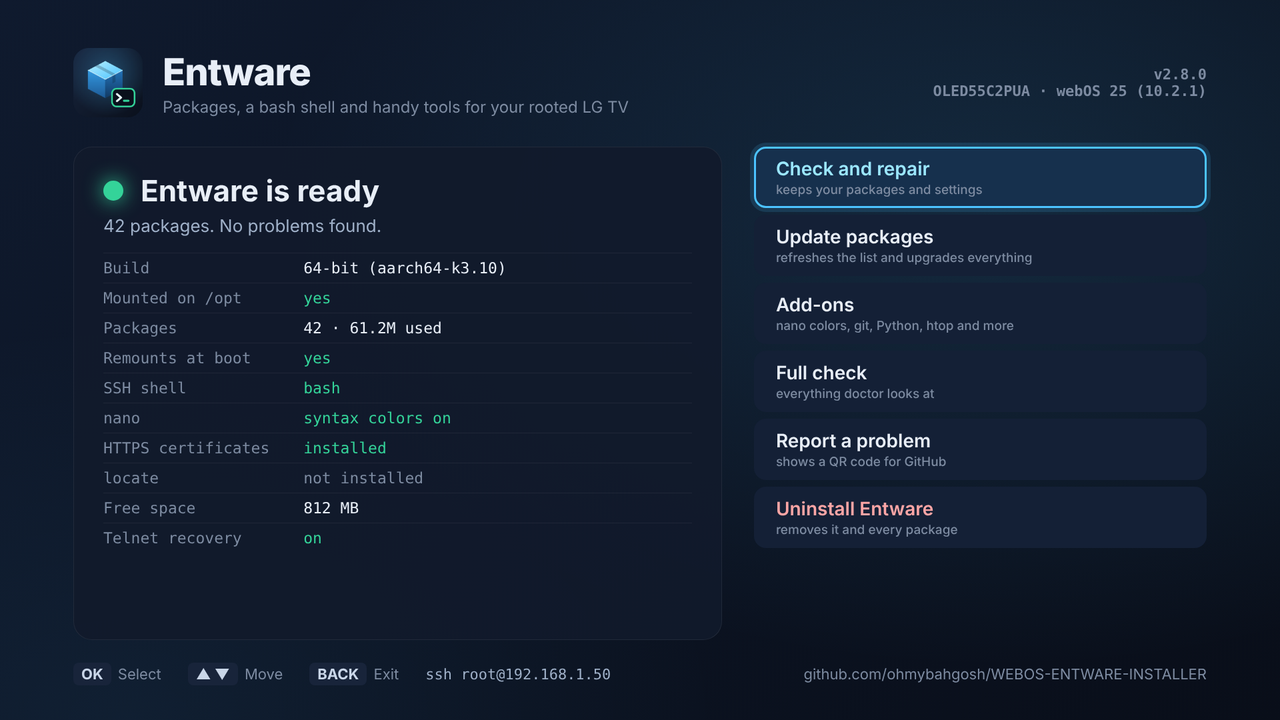
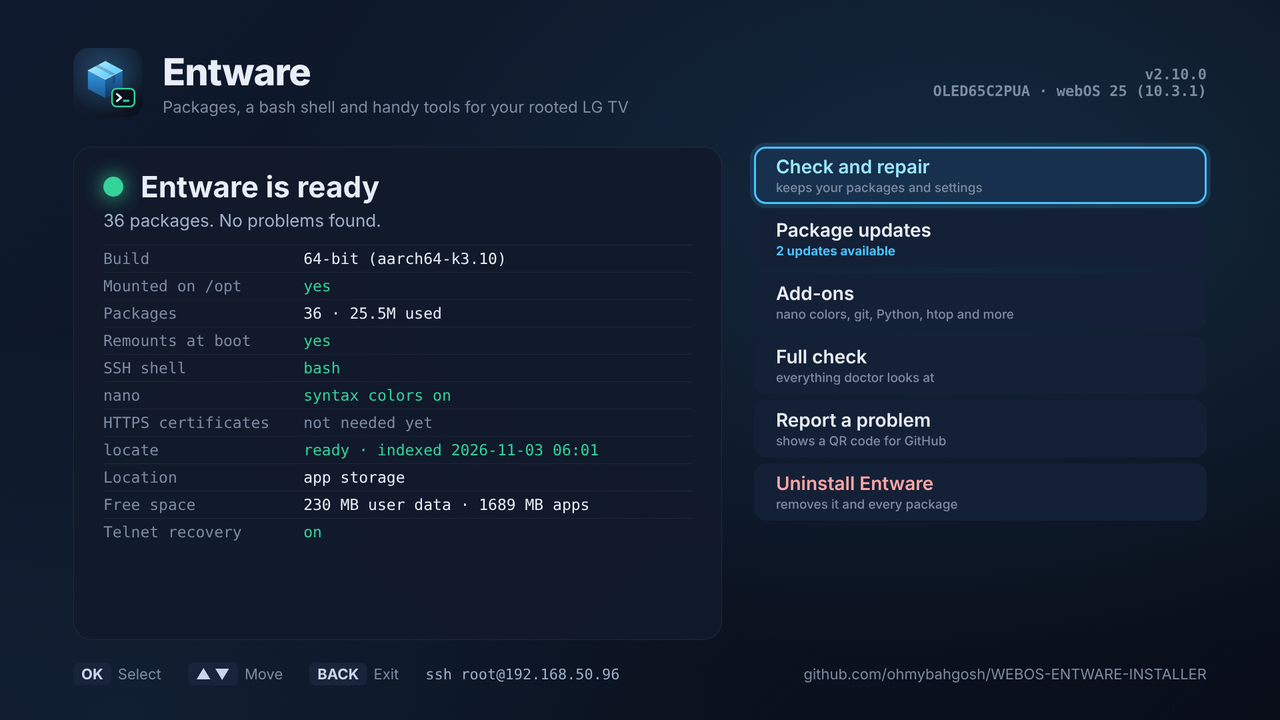
README: fresh screenshots from 2.10.0, an app demo, and app storage paths
Every terminal and app screenshot is redone from the current installer
and app with an LG C2's real status: app storage, Package updates and
the Login banner.  The banner shows the current app, the TV app section
gains a demo GIF and the Package updates screen, and the remaining
user-data paths now name app storage first.

diff --git a/README.md b/README.md
@@ -19,7 +19,7 @@
 Sets up **Entware** on **rooted LG webOS TVs**, so you can install hundreds of Linux command line packages with `opkg`, and gives you a bash shell, handy webOS commands and one-press [add-ons](#add-ons) like git, Python and htop.  Run it from the **[TV app](#the-tv-app)** with your remote, or over SSH.  Either way it's one POSIX shell script with no dependencies.
 
 > [!IMPORTANT]
-> **This changes a rooted TV, so read what it does first.**  It installs into `/mnt/lg/user/opt`, adds one Homebrew Channel boot script and, unless you use `--no-shell`, swaps in its own shell files after backing yours up.  Everything it adds is listed in [What it changes on the TV](#what-it-changes-on-the-tv), and `webos-entware uninstall` takes it all back out.  Keep **telnet** on in the Homebrew Channel as a way back in.  Provided as-is, with no warranty.
+> **This changes a rooted TV, so read what it does first.**  It installs into the TV's app storage (`/mnt/lg/appstore/entware`), adds one Homebrew Channel boot script and, unless you use `--no-shell`, swaps in its own shell files after backing yours up.  Everything it adds is listed in [What it changes on the TV](#what-it-changes-on-the-tv), and `webos-entware uninstall` takes it all back out.  Keep **telnet** on in the Homebrew Channel as a way back in.  Provided as-is, with no warranty.
 
 > [!NOTE]
 > **How this is built.**  I, [OhMyBahGosh](https://github.com/ohmybahgosh), wrote the first versions by hand.  From v2.0 on, it's written with AI coding agents (Claude), directed, reviewed and tested by me.  I've been building software for over 17 years.  My day job is data engineering, and network security and pentesting are what I do for fun.  AI writes a lot of the code here; I decide what it does, check how it does it, and nothing ships until it's run on a real TV (an LG C2 on webOS 25).
@@ -97,10 +97,13 @@ The easiest way in.  It runs the same installer underneath, as root through the 
 - **Updates itself:** when a new version is out, **Update to v…** downloads it from GitHub, checks it against the release's checksums and that it really is this app, installs it and reopens.  The `webos-entware` command updates with it.  The Homebrew Channel offers updates too.
 - **Made for the remote:** arrow keys and OK, or point and click with the Magic Remote.  BACK closes whatever is open.
 
+<p align="center"><img src="images/app-demo.gif" width="720" alt="The TV app with the remote: opening Add-ons, adding the Login banner and watching it install, then opening Package updates"></p>
+
 <p align="center">
-  <img src="images/app-status.png" width="49%" alt="The Entware app's main screen: status of the install and the actions">
-  <img src="images/app-addons.png" width="49%" alt="The Add-ons screen scrolled to the bottom: tmux installed, then ncdu, rsync, curl, jq and the Login banner, each with Add">
+  <img src="images/app-status.png" width="49%" alt="The Entware app's main screen on an LG C2: Entware is ready, 36 packages on app storage, with Check and repair, Package updates (2 updates available), Add-ons, Full check, Report a problem and Uninstall Entware">
+  <img src="images/app-addons.png" width="49%" alt="The Add-ons screen scrolled to the bottom: tmux, ncdu, rsync, curl and jq with Add, and the Login banner installed">
 </p>
+<p align="center"><img src="images/app-updates.png" width="49%" alt="The Package updates screen: Update all 2 packages, htop 3.4.1-1 to 3.4.2-1 and curl 8.11.1-1 to 8.12.0-1, each with Update, and Check again"></p>
 
 **Install it from the Homebrew Channel:** open the Homebrew Channel, go to Settings, add the repository `https://ohmybahgosh.dev/repo`, then install **Entware** from the list.  The Homebrew Channel then offers updates like for any other app.
 
@@ -337,7 +340,7 @@ Tab after `launch`, `close` or `applog` completes app IDs. `webos-tv help` lists
 
 <p align="center"><img src="images/cli-helpers.png" width="760" alt="webos-tv help, apps listing the TV's apps, and toast"></p>
 
-`doctor` also shows the free space on the data partition, which webOS shares with Entware, and flags it below 50 MB.
+`doctor` also shows the free space on user data, which webOS needs for itself, and on app storage, and flags the one Entware is on when it's below 50 MB.
 
 ---
 
@@ -528,7 +531,7 @@ webos-entware uninstall
 
 This asks first, then removes Entware, every package installed with it, the boot script and the shell files the installer wrote, links in your home folder that point into Entware, and unmounts `/opt`. Your original shell files are put back. Disconnect and SSH in again afterwards.
 
-If `/opt` can't be unmounted, or something (like a USB drive) is still mounted inside `/mnt/lg/user/opt`, the folder is kept rather than deleted. Fix that and run uninstall again.
+If `/opt` can't be unmounted, or something (like a USB drive) is still mounted inside Entware's folder, the folder is kept rather than deleted. Fix that and run uninstall again.
 
 To reinstall later, just run the install again.
 
@@ -547,7 +550,7 @@ telnet <tv-ip>               # Homebrew Channel telnet, if it's on
 
 From there, `rm /home/root/.profile` gets normal SSH back right away. Then run `webos-entware install` to repair, or `webos-entware uninstall`.
 
-**Entware is gone after a reboot.** Run `sh /mnt/lg/user/opt/bin/webos-entware doctor` (the saved copy works even while `/opt` isn't mounted). If the boot script is missing, run install again. If it says the boot script didn't run, the Homebrew Channel skipped its boot scripts at that boot: open the Homebrew Channel app once and check again. If the problem keeps coming back, please open an issue with the `doctor` output.
+**Entware is gone after a reboot.** Run `sh /mnt/lg/appstore/entware/bin/webos-entware doctor`, or `sh /mnt/lg/user/opt/bin/webos-entware doctor` if it's on user data (the saved copy works even while `/opt` isn't mounted). If the boot script is missing, run install again. If it says the boot script didn't run, the Homebrew Channel skipped its boot scripts at that boot: open the Homebrew Channel app once and check again. If the problem keeps coming back, please open an issue with the `doctor` output.
 
 **The TV crashed during boot.** On the next boot the Homebrew Channel starts in failsafe mode, skips boot scripts and opens telnet. Connect with telnet, remove `/var/lib/webosbrew/init.d/S99entware`, then reboot.
 
